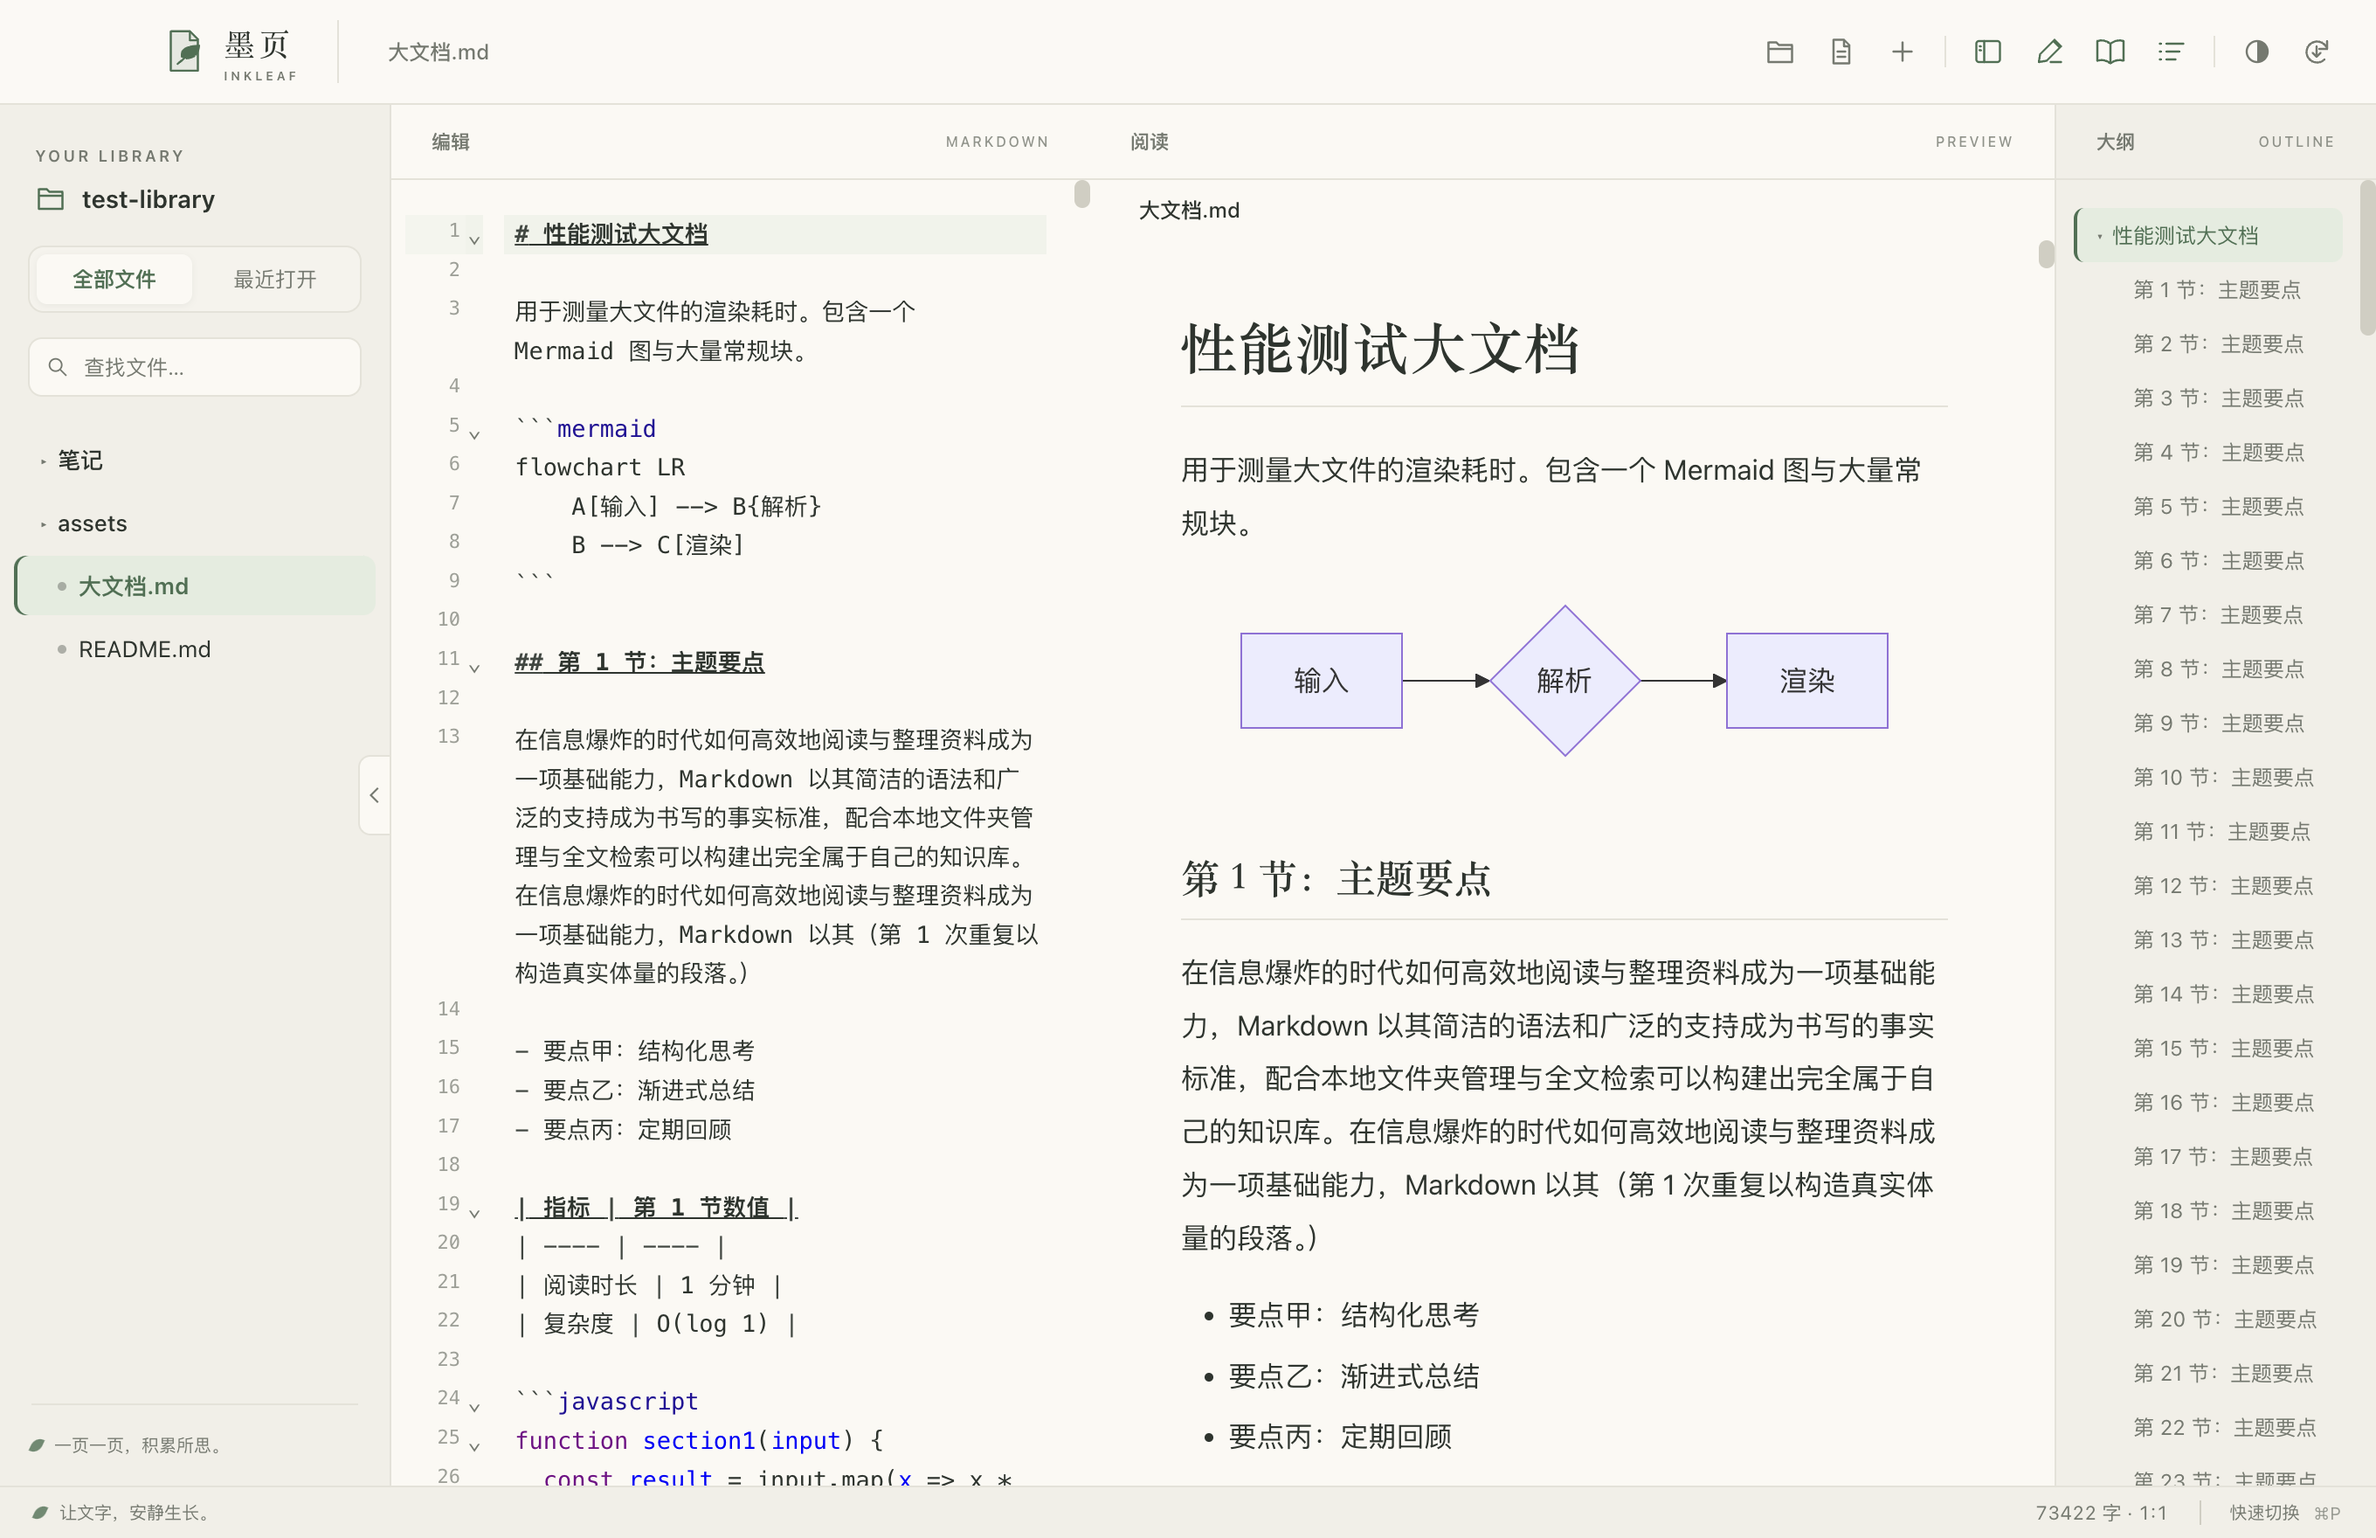
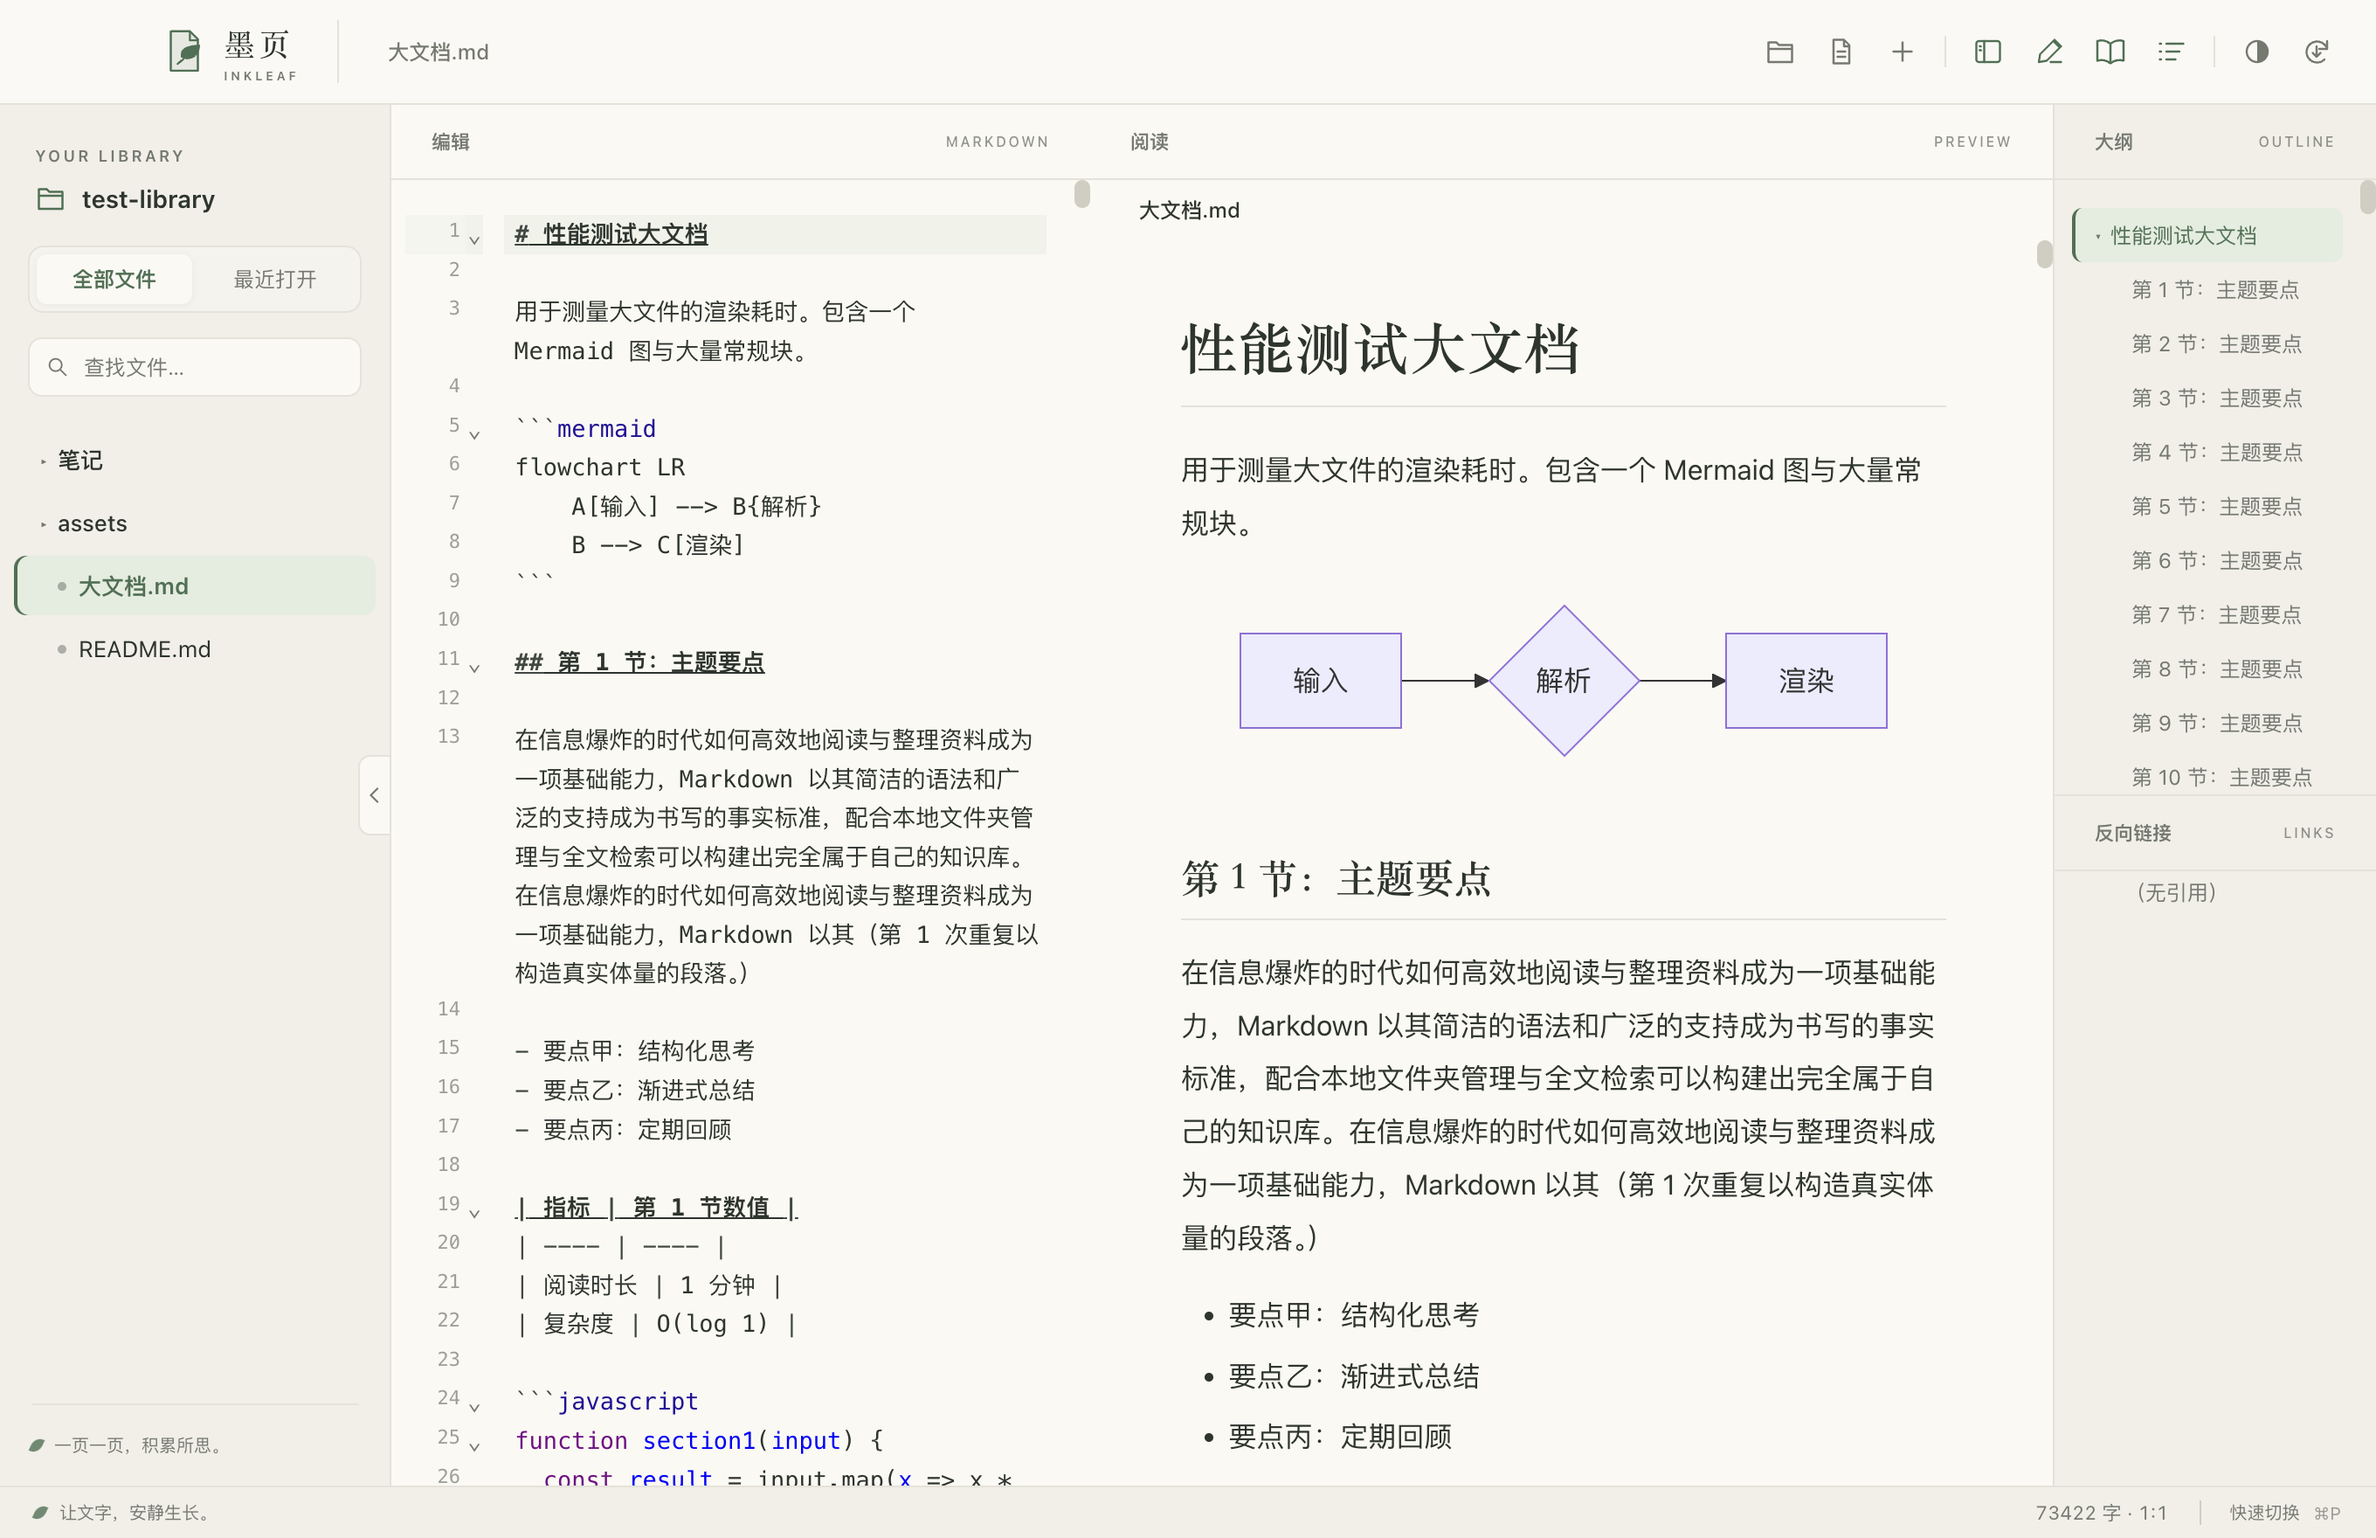
功能(D10)：反向链接面板——首个经面板注册表注册的功能面板（TDD）
- 右栏改堆叠容器 #right-panes（大纲+反链垂直堆叠，共享宽度 sharesWidth 机制）
- 面板注册表增强：sharesWidth 字段、resizer 去重（多面板共享同一 resizer）
- backlink.ts：index:backlinks 驱动，点击跳转引用方对应行；⌘⌘4 切换命令
- openFile/closeFile 后自动刷新
- RED pane=false → GREEN pane/count/readme/jump 全 true

Changed region(s): [[0.875, 0.125, 1.0, 0.9688], [0.875, 0.125, 0.9375, 0.1562], [0.625, 0.4375, 0.6562, 0.4688]]

diff --git a/src/main/index.ts b/src/main/index.ts
@@ -589,8 +589,11 @@ async function createWindow() {
                 await new Promise(r => setTimeout(r, 1200));
                 const target = document.querySelector('#preview a[data-wikilink]');
                 if (target) {
+                  for (let i = 0; i < 20 && !target.dataset.wikilinkPath; i++) {
+                    await new Promise(r => setTimeout(r, 60));
+                  }
                   target.dispatchEvent(new MouseEvent('mouseenter', {bubbles: false}));
-                  await new Promise(r => setTimeout(r, 900));
+                  await new Promise(r => setTimeout(r, 1200));
                   hovered = !!document.querySelector('.wikilink-card');
                   document.querySelector('.wikilink-card')?.remove();
                 }
@@ -603,6 +606,29 @@ async function createWindow() {
         `)
         const wl = JSON.parse(wikilinkCheck)
         console.log(`[wikilink-check] count=${wl.count} rendered=${wl.rendered} opened=${wl.opened} hoverCard=${wl.hovered} ${wl.rendered && wl.opened && wl.hovered ? 'OK' : 'FAIL'}`)
+        // backlink panel check: open 旅行计划 (linked from README), panel lists the reference
+        const backlinkCheck = await win.webContents.executeJavaScript(`
+          (async () => {
+            try {
+              document.querySelector('.tree-row[data-path$="旅行计划.md"]')?.click();
+              await new Promise(r => setTimeout(r, 1500));
+              const pane = document.getElementById('backlink-pane');
+              const items = pane ? pane.querySelectorAll('.backlink-item') : [];
+              const firstText = items[0]?.textContent ?? '';
+              let jumped = false;
+              if (items[0]) {
+                items[0].click();
+                await new Promise(r => setTimeout(r, 1200));
+                jumped = (document.getElementById('file-title')?.textContent ?? '') === 'README.md';
+              }
+              return JSON.stringify({paneExists: !!pane, count: items.length, mentionsReadme: firstText.includes('README'), jumped});
+            } catch (err) {
+              return JSON.stringify({error: String(err)});
+            }
+          })()
+        `)
+        const bl = JSON.parse(backlinkCheck)
+        console.log(`[backlink-check] pane=${bl.paneExists} count=${bl.count} readme=${bl.mentionsReadme} jump=${bl.jumped} ${bl.paneExists && bl.count >= 1 && bl.mentionsReadme && bl.jumped ? 'OK' : 'FAIL'}`)
         // regex search check: '/'-prefixed query in the search palette uses RegExp matching
         const regexCheck = await win.webContents.executeJavaScript(`
           (async () => {
@@ -744,6 +770,7 @@ function buildMenu() {
         { label: '切换编辑面板', accelerator: 'CmdOrCtrl+1', click: () => send('toggle-editor') },
         { label: '切换预览面板', accelerator: 'CmdOrCtrl+2', click: () => send('toggle-preview') },
         { label: '切换大纲', accelerator: 'CmdOrCtrl+3', click: () => send('toggle-outline') },
+        { label: '切换反向链接', accelerator: 'CmdOrCtrl+4', click: () => send('toggle-backlink') },
         { type: 'separator' },
         { label: '暖白纸面', click: () => send('theme-light') },
         { label: '羊皮纸', click: () => send('theme-sepia') },

diff --git a/src/renderer/src/main.ts b/src/renderer/src/main.ts
@@ -17,6 +17,7 @@ import { setupPlatformUi } from './platform'
 import { registerCommand, runCommand } from './commands'
 import { applyFocusModes, toggleFocusMode, toggleTypewriter, setupFocusHighlight } from './focus'
 import { setWikilinkNav } from './wikilink'
+import { setBacklinkNav, refreshBacklinks } from './backlink'
 import { registerPanel, listPanels, getPanel, attachPanelResizers, type PanelDef } from './panels'
 
 const $ = (s: string) => document.querySelector<HTMLElement>(s)!
@@ -89,6 +90,10 @@ function registerBuiltinPanels() {
     id: 'outline', slot: 'right', el: outlinePane, resizer: $('#resizer-outline'),
     min: 160, max: 420, defaultWidth: 184,
   })
+  registerPanel({
+    id: 'backlink', slot: 'right', el: $('#backlink-pane'), resizer: $('#resizer-outline'),
+    min: 160, max: 420, defaultWidth: 184, sharesWidth: 'outline',
+  })
 }
 
 function applyLayout() {
@@ -106,8 +111,8 @@ function applyLayout() {
   for (const p of listPanels()) {
     const c = collapsed(p.id)
     p.el.classList.toggle('pane-collapsed', c)
-    p.el.style.width = c ? '' : `${Math.round(panelWidth(p) * scale)}px`
-    p.resizer.classList.toggle('pane-collapsed', c)
+    // sharesWidth 面板（右栏堆叠）不设自身宽度，随容器铺满
+    if (!p.sharesWidth) p.el.style.width = c ? '' : `${Math.round(panelWidth(p) * scale)}px`
     p.onLayout?.(c)
     $(`#btn-toggle-${p.id}`)?.setAttribute('aria-pressed', String(!c))
   }
@@ -203,6 +208,7 @@ async function openFile(path: string, opts?: { line?: number }): Promise<boolean
     saveState()
     if (s.sidebarTab === 'recent') renderRecent()
     updateBreadcrumb()
+    void refreshBacklinks(runtime.currentFile)
     applyLayout()
     return true
   } finally {
@@ -224,6 +230,7 @@ function closeFile() {
   document.title = '墨页 · Inkleaf'
   saveStateEl.textContent = ''
   updateBreadcrumb()
+  void refreshBacklinks(null)
   applyLayout()
 }
 
@@ -457,6 +464,7 @@ function registerBuiltinCommands() {
   registerCommand({ id: 'toggle-editor', title: '切换编辑面板', run: () => togglePane('editor') })
   registerCommand({ id: 'toggle-preview', title: '切换预览面板', run: () => togglePane('preview') })
   registerCommand({ id: 'toggle-outline', title: '切换大纲', run: () => togglePane('outline') })
+  registerCommand({ id: 'toggle-backlink', title: '切换反向链接', run: () => togglePane('backlink' as PaneKey) })
   // 主题与字号
   registerCommand({ id: 'theme-light', title: '浅色主题', run: () => setTheme('light') })
   registerCommand({ id: 'theme-sepia', title: '羊皮纸主题', run: () => setTheme('sepia') })
@@ -634,6 +642,7 @@ async function boot() {
   setWikilinkNav((p, anchor) => {
     void openFile(p, anchor ? { line: findHeadingLine(p, anchor) } : undefined)
   })
+  setBacklinkNav((p, opts) => void openFile(p, opts))
   setupLightbox(preview)
 
   $('#tab-files').addEventListener('click', () => setSidebarTab('files'))

diff --git a/src/renderer/styles/app.css b/src/renderer/styles/app.css
@@ -200,7 +200,7 @@ body[data-platform='linux'] #titlebar {
   overflow: hidden;
 }
 #sidebar { border-right: 1px solid var(--border); }
-#outline-pane { border-left: 1px solid var(--border); }
+#right-panes { border-left: 1px solid var(--border); }
 
 .pane-header {
   flex: none;
@@ -871,3 +871,42 @@ body.focus-mode .md-preview > .focus-active { opacity: 1; }
 body.focus-mode .cm-scroller .cm-line { opacity: 0.45; transition: opacity 0.2s ease; }
 body.focus-mode .cm-scroller .cm-activeLine { opacity: 1; }
 body.typewriter-mode .cm-scroller { scroll-behavior: smooth; }
+
+/* ---------- right pane stack (outline + backlinks) ---------- */
+#right-panes {
+  flex: none;
+  display: flex;
+  flex-direction: column;
+  min-width: 0;
+  min-height: 0;
+}
+#right-panes > aside {
+  flex: 1;
+  min-height: 0;
+  display: flex;
+  flex-direction: column;
+  background: var(--panel);
+  overflow: hidden;
+}
+#right-panes > aside + aside { border-top: 1px solid var(--border); }
+#backlink-list {
+  flex: 1;
+  overflow: auto;
+  padding: 2px 8px 16px;
+  min-height: 0;
+}
+.backlink-item {
+  display: flex;
+  align-items: baseline;
+  gap: 4px;
+  padding: 5px 8px;
+  border-radius: 6px;
+  font-size: 12.5px;
+  color: var(--text-dim);
+  cursor: pointer;
+  white-space: nowrap;
+  overflow: hidden;
+}
+.backlink-item:hover { background: var(--hover); color: var(--accent); }
+.backlink-item .bl-file { overflow: hidden; text-overflow: ellipsis; }
+.backlink-item .bl-line { font-size: 10.5px; opacity: 0.7; font-variant-numeric: tabular-nums; }

diff --git a/src/renderer/src/backlink.ts b/src/renderer/src/backlink.ts
@@ -1,0 +1,41 @@
+/**
+ * 反向链接面板（docs/02 P0-6 · 首个经面板注册表注册的功能面板）。
+ * 数据来自索引服务 index:backlinks；点击条目跳转到引用方文档对应行。
+ */
+
+let openFileFn: ((path: string, opts?: { line?: number }) => Promise<boolean> | void) | null = null
+
+export function setBacklinkNav(fn: (path: string, opts?: { line?: number }) => Promise<boolean> | void) {
+  openFileFn = fn
+}
+
+function baseName(p: string): string {
+  return p.split('/').pop() ?? p
+}
+
+export async function refreshBacklinks(currentPath: string | null): Promise<void> {
+  const host = document.getElementById('backlink-list')
+  if (!host) return
+  host.innerHTML = ''
+  if (!currentPath) return
+  const name = baseName(currentPath).replace(/\.(md|markdown|mdx)$/i, '')
+  const links = await window.mdr.indexBacklinks(name).catch(() => [])
+  if (!links.length) {
+    const empty = document.createElement('div')
+    empty.className = 'tree-empty'
+    empty.textContent = '（无引用）'
+    host.appendChild(empty)
+    return
+  }
+  for (const l of links) {
+    const item = document.createElement('div')
+    item.className = 'backlink-item'
+    item.innerHTML = `<span class="bl-file"></span><span class="bl-line">:${l.line}</span>`
+    ;(item.querySelector('.bl-file') as HTMLElement).textContent = baseName(l.path)
+    item.title = l.path
+    item.addEventListener('click', () => {
+      void openFileFn?.(l.path, { line: l.line })
+    })
+    host.appendChild(item)
+  }
+}

diff --git a/src/renderer/src/panels.ts b/src/renderer/src/panels.ts
@@ -16,6 +16,8 @@ export interface PanelDef {
   min: number
   max: number
   defaultWidth: number
+  /** 与另一面板共享宽度（右栏堆叠面板）：不设自身宽度，随容器铺满 */
+  sharesWidth?: string
   /** 面板特有的布局副作用（如 sidebar 的边缘把手） */
   onLayout?: (collapsed: boolean) => void
 }
@@ -40,7 +42,10 @@ export function attachPanelResizers(
   writeWidth: (id: string, w: number) => void,
   onEnd: () => void,
 ) {
+  const wired = new Set<HTMLElement>()
   for (const p of panels.values()) {
+    if (wired.has(p.resizer)) continue // 多面板共享同一 resizer 时只挂一次
+    wired.add(p.resizer)
     p.resizer.addEventListener('pointerdown', (e) => {
       e.preventDefault()
       const startX = e.clientX

diff --git a/src/renderer/index.html b/src/renderer/index.html
@@ -71,10 +71,16 @@
     <button id="back-top" title="返回顶部" aria-label="返回顶部"><svg class="icon"><use href="#i-up"/></svg></button>
   </section>
   <div class="resizer" id="resizer-outline"></div>
+  <div id="right-panes">
   <aside id="outline-pane" aria-label="文档大纲">
     <div class="pane-heading"><span>大纲</span><small>OUTLINE</small></div>
     <nav id="outline" aria-label="标题导航"></nav>
   </aside>
+  <aside id="backlink-pane" aria-label="反向链接">
+    <div class="pane-heading"><span>反向链接</span><small>LINKS</small></div>
+    <div id="backlink-list"></div>
+  </aside>
+  </div>
 </div>
 <div id="empty-state">
   <div class="empty-card">

diff --git a/src/renderer/src/wikilink.ts b/src/renderer/src/wikilink.ts
@@ -110,7 +110,7 @@ registerPostProcessor((container) => {
         activeCard = card
         // the card disappears on mouseleave or after a while (re-renders don't fire mouseleave)
         setTimeout(() => activeCard === card && dismissCard(), 6000)
-      }, 220)
+      }, 150)
     })
     a.addEventListener('mouseleave', dismissCard)
   })
